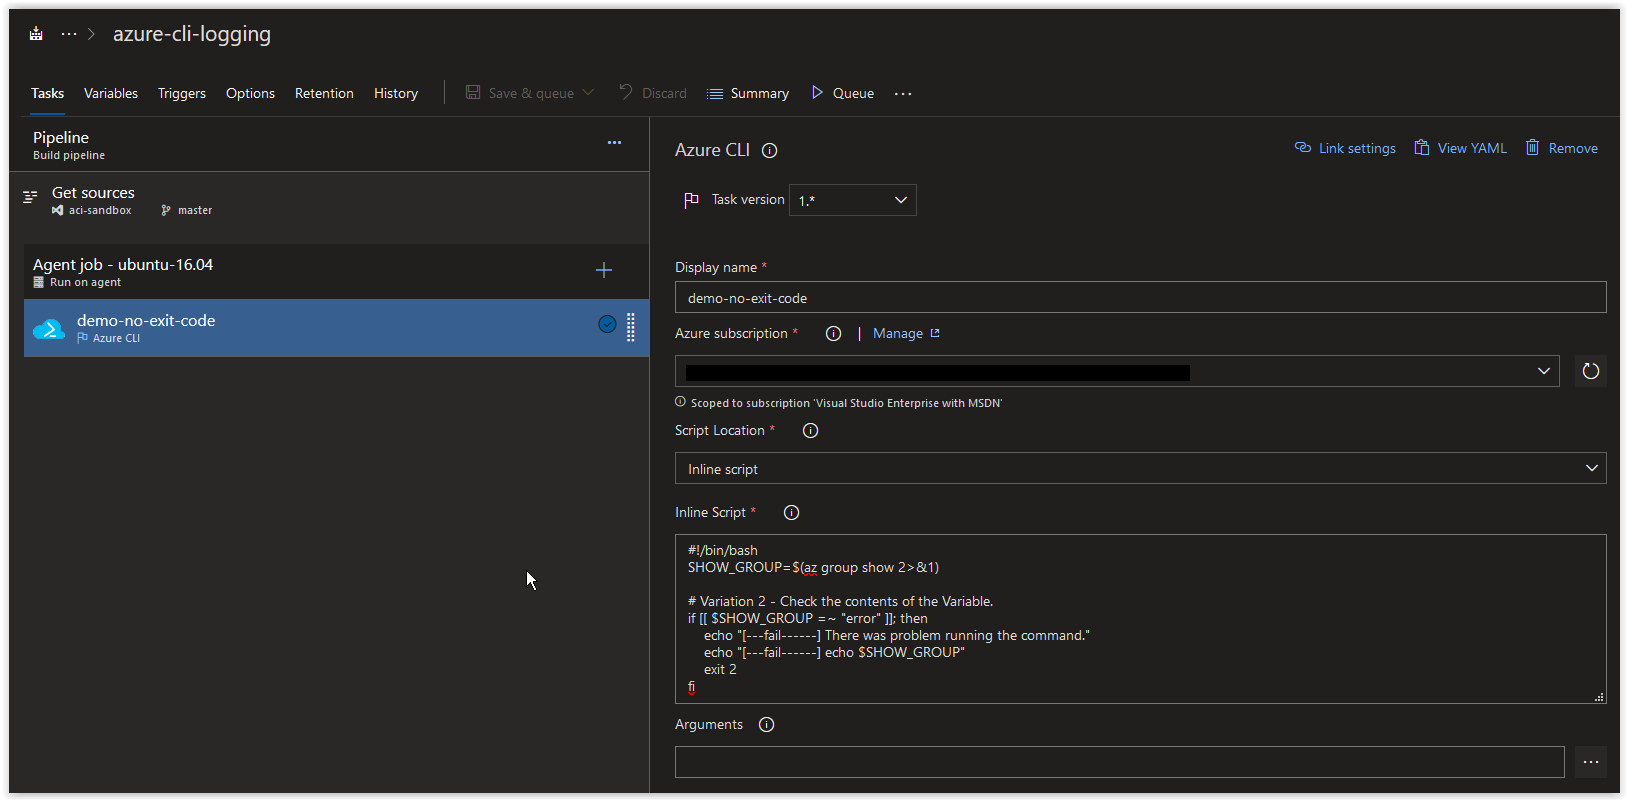
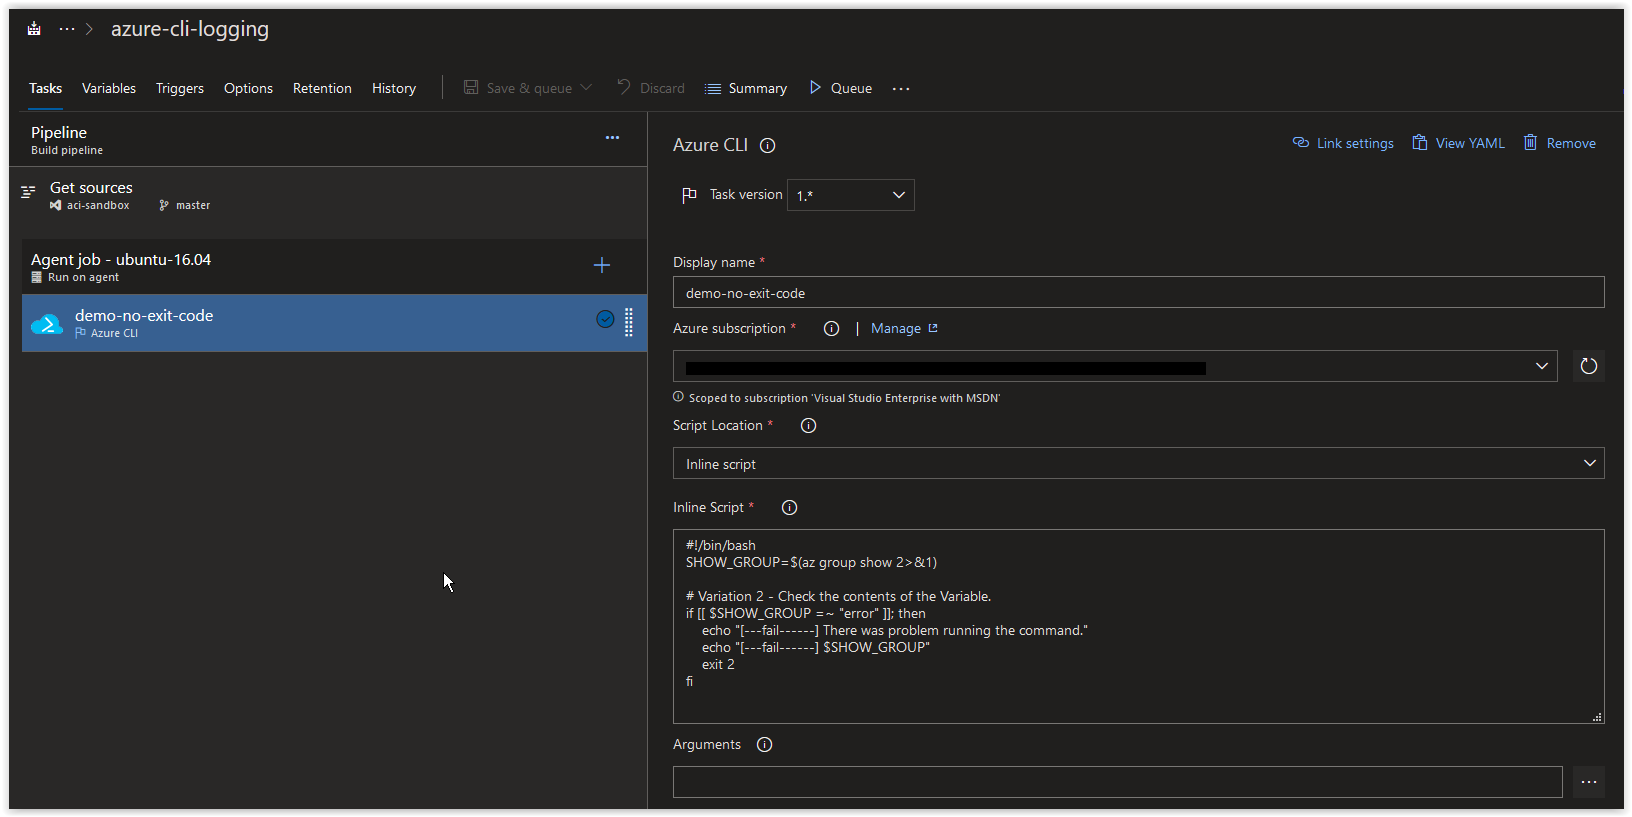
updated

diff --git a/articles/day.19.azure.cli.logging.build.pipelines.variable.evaluation.md b/articles/day.19.azure.cli.logging.build.pipelines.variable.evaluation.md
@@ -11,7 +11,7 @@ SHOW_GROUP=$(az group show 2>&1)
 # Variation 2 - Check the contents of the Variable.
 if [[ $SHOW_GROUP =~ "error" ]]; then
     echo "[---fail------] There was problem running the command."
-    echo "[---fail------] echo $SHOW_GROUP"
+    echo "[---fail------] $SHOW_GROUP"
     exit 2
 fi
 ```
@@ -39,12 +39,12 @@ The reason we are getting an error is because we didn't provide the following ar
 --resource-group
 ```
 
-In the second part of the script, we are evaluating the contents of the **SHOW_GROUP** variable to see if the word **error** is found in it. 
+In the second part of the script, we are evaluating the contents of the **SHOW_GROUP** variable to see if the word **error** is found in it.
 
 ```bash
 if [[ $SHOW_GROUP =~ "error" ]]; then
     echo "[---fail------] There was problem running the command."
-    echo "[---fail------] echo $SHOW_GROUP"
+    echo "[---fail------] $SHOW_GROUP"
     exit 2
 fi
 ```
@@ -52,7 +52,7 @@ fi
 If **error** is found, then the following error output is returned.
 
 ```console
-[---fail------] echo ERROR: az group show: error: the following arguments are required: --name/-n/--resource-group/-g
+[---fail------] ERROR: az group show: error: the following arguments are required: --name/-n/--resource-group/-g
 usage: az group show [-h] [--verbose] [--debug]
                      [--output {json,jsonc,table,tsv,yaml,none}]
                      [--query JMESPATH] [--subscription _SUBSCRIPTION] --name
